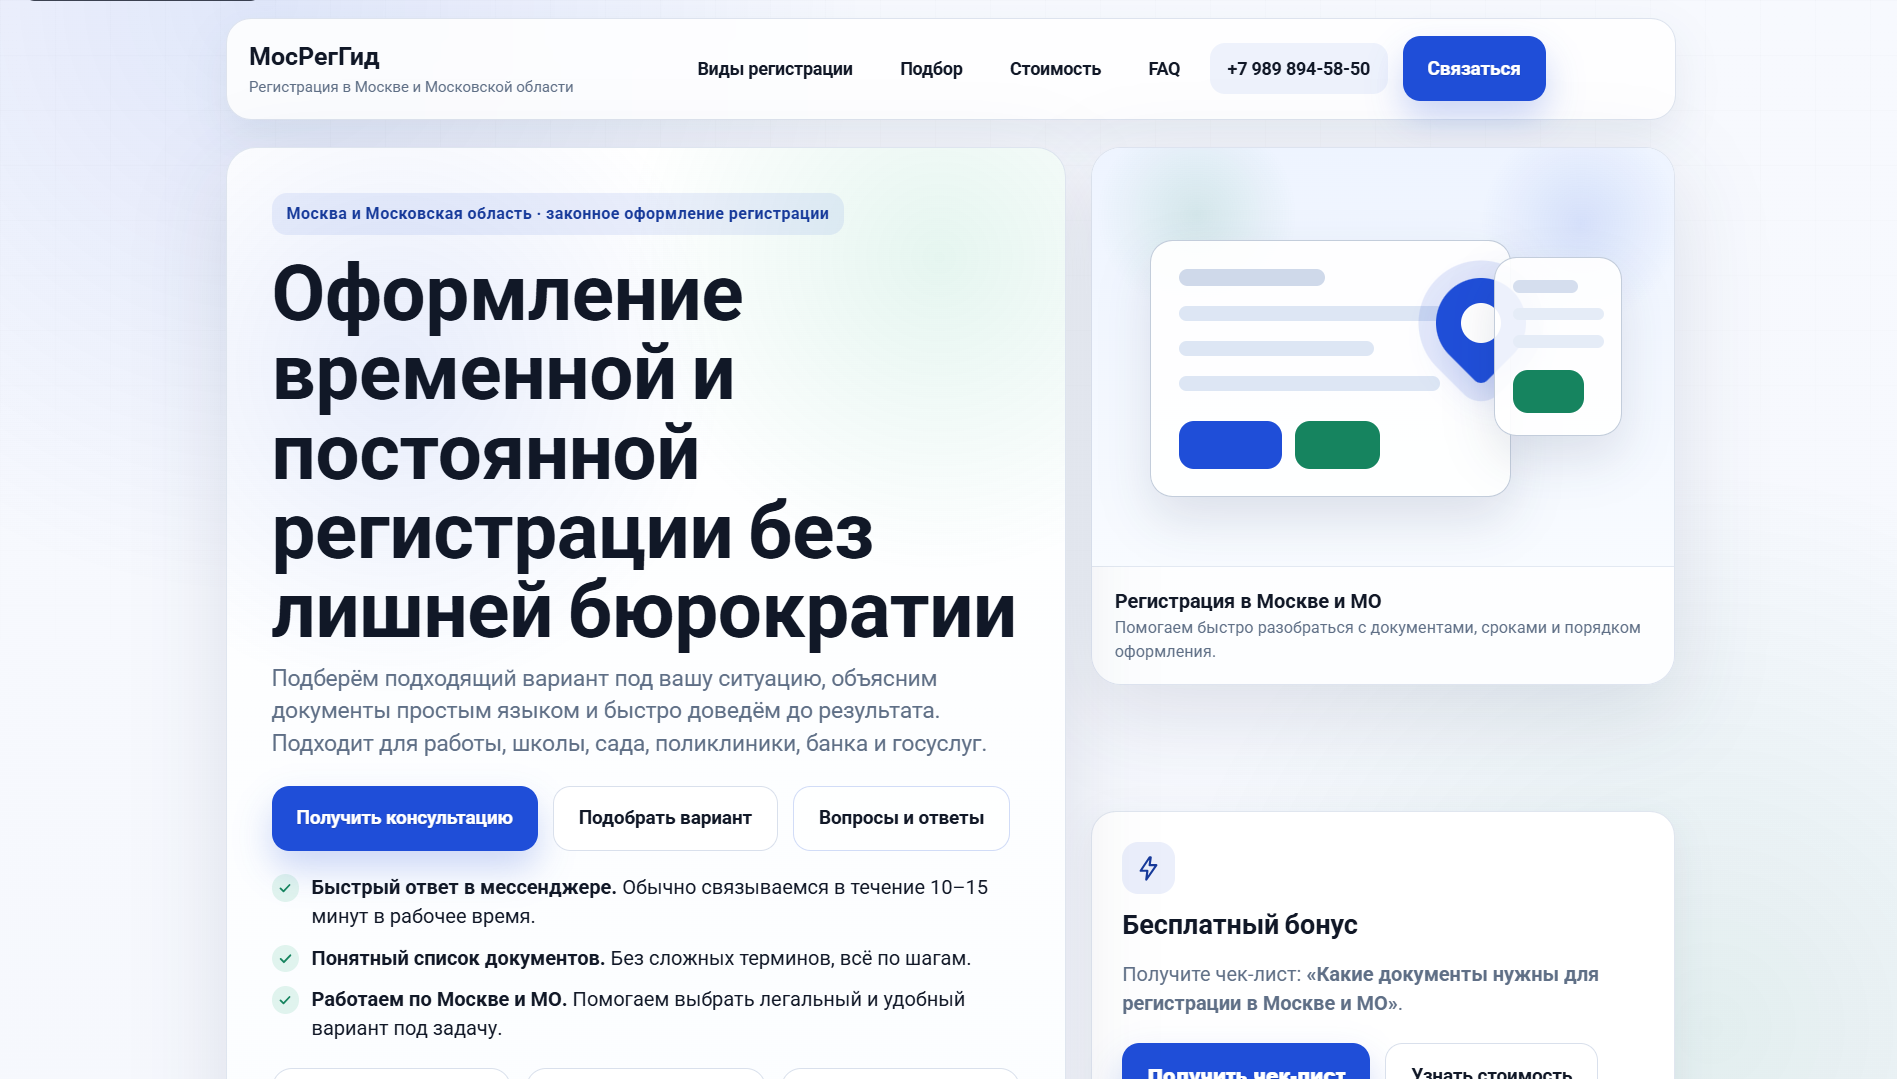
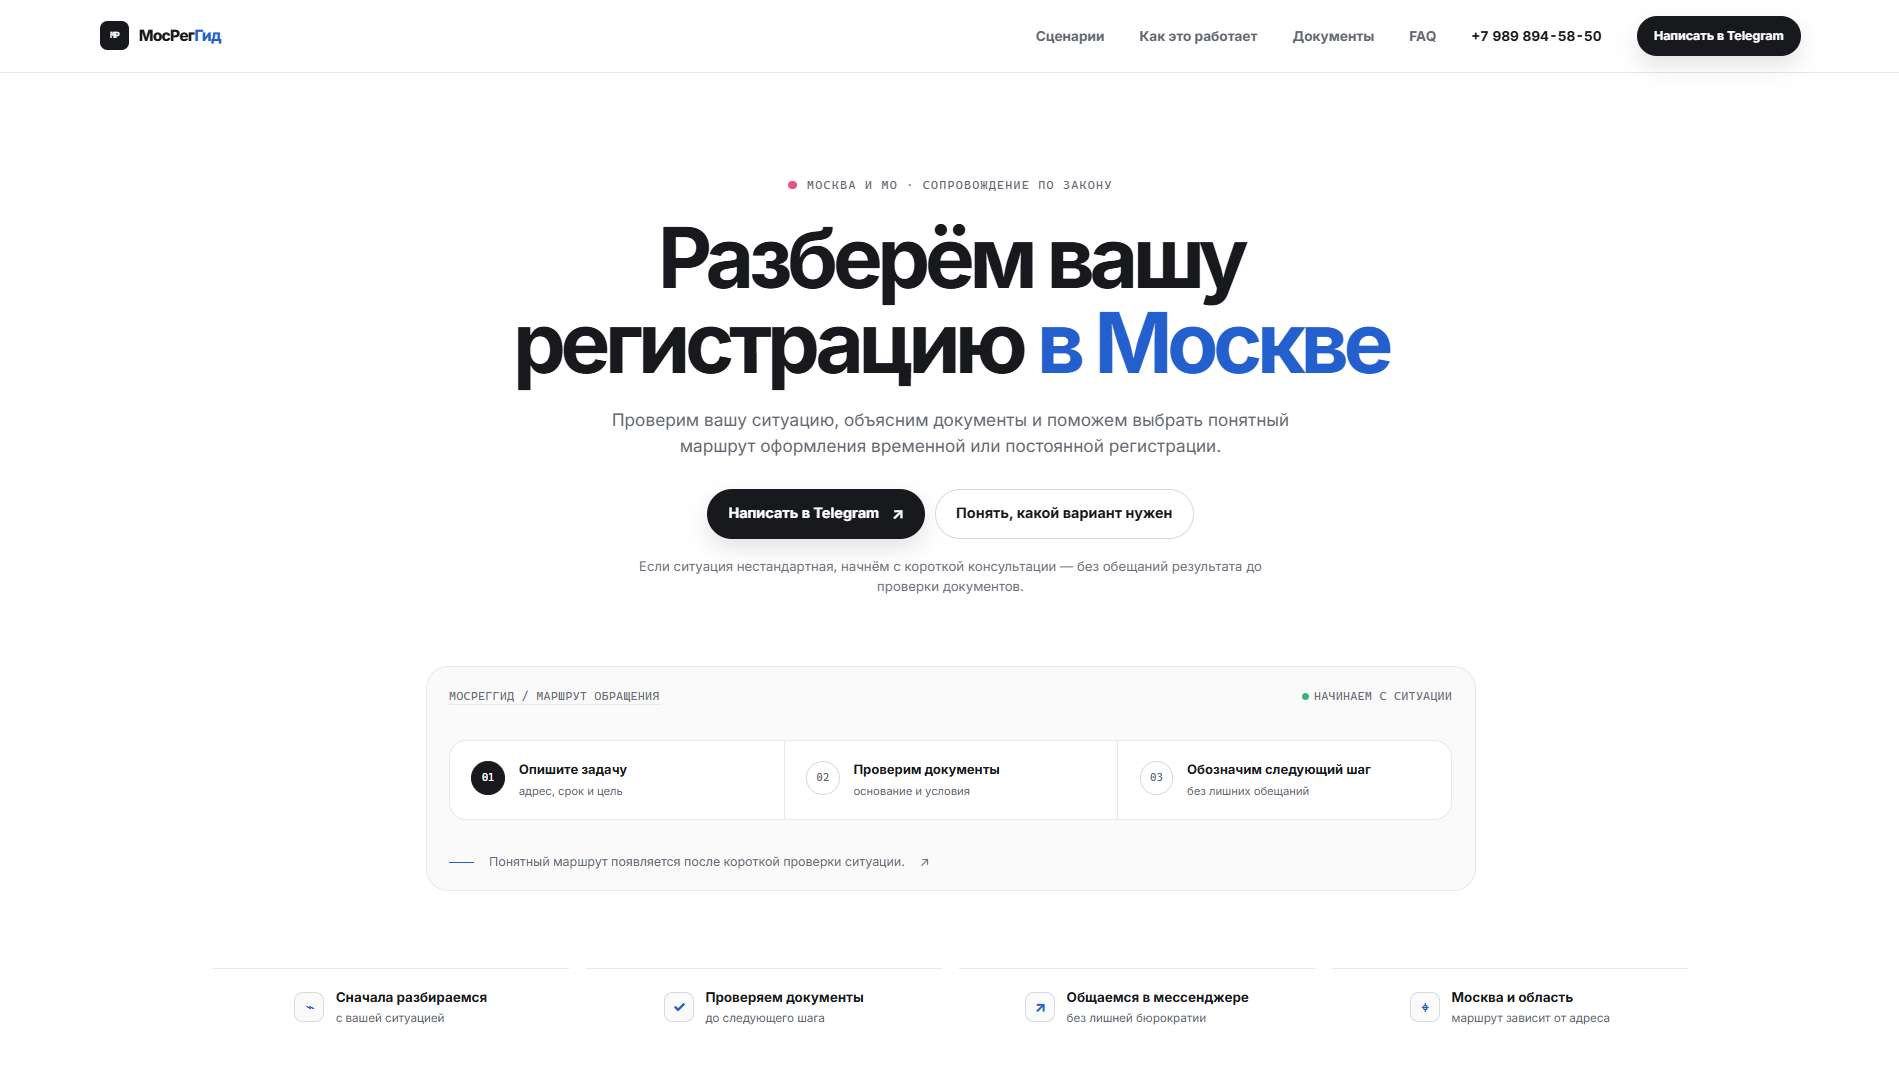
feat: refresh MosRegGuid case in portfolio

diff --git a/js/main.js b/js/main.js
@@ -154,36 +154,41 @@ const cases = [
 		shortTitle: 'МосРегГид',
 		url: 'https://mos-reg-guide.vercel.app/',
 		image: 'cases-img/mos-reg-guide.png',
-		niche: 'Документы / консультационная услуга',
+		niche: 'Регистрация в Москве и МО / документы и маршрут оформления',
 		cardText:
-			'Сделать понятную посадочную страницу для услуги, где клиенту важно быстро разобраться в типах регистрации, документах, стоимости и способе связи.',
+			'Обновить сайт консультационной услуги и помочь посетителю начать с описания ситуации, выбрать подходящий сценарий и понять, какие документы и действия потребуется проверить.',
 		result:
-			'Лендинг снижает юридическую путаницу: объясняет услугу простым языком, помогает выбрать сценарий и переводит пользователя к консультации.',
-		cta: 'Хочу лендинг с квизом',
+			'Редизайн выстраивает маршрут от первого обращения до следующего шага: посетитель выбирает сценарий, знакомится с вариантами регистрации, документами и этапами, а затем отправляет обращение с нужными параметрами.',
+		cta: 'Хочу сайт с понятным маршрутом',
 		done: [
-			'Собрана структура с первым экраном, блоком “для кого”, видами регистрации и ответами на ключевые вопросы',
-			'Добавлен квиз-подбор варианта под ситуацию клиента',
-			'Сделаны блоки стоимости, процесса, документов, отзывов, FAQ и формы заявки',
-			'Форма учитывает параметры квиза и отправляет их в заявку',
+			'Полностью обновлён первый экран: сформулирована польза и показан маршрут обращения в три шага',
+			'Добавлены сценарии для личного обращения, семьи и работодателя или HR',
+			'Собраны разделы о временной и постоянной регистрации, документах, стоимости и отдельном маршруте для иностранных граждан',
+			'Форма передаёт сценарий и тип регистрации, контакт, канал ответа и согласие на обработку данных',
 		],
 		features: [
-			'Квиз-подбор',
-			'Бонус-чеклист',
-			'Форма консультации',
-			'Telegram/WhatsApp',
+			'Сценарии для разных ситуаций',
+			'Интерактивный маршрут обращения',
+			'Проверка документов и стоимости',
+			'Форма с выбором канала ответа',
 		],
 		blocks: [
 			'Первый экран',
-			'Для кого услуга',
-			'Виды регистрации',
-			'Стоимость',
+			'Сценарии обращения',
+			'Временная и постоянная регистрация',
+			'Этапы работы',
 			'Документы',
+			'Стоимость',
+			'Отдельный маршрут для иностранных граждан',
 			'FAQ',
+			'Форма обращения',
 		],
 		functionality: [
-			'Квиз-подбор',
-			'Форма консультации',
-			'Передача параметров квиза',
+			'Вкладки сценариев',
+			'Выбор типа регистрации',
+			'Переключаемые этапы обращения',
+			'Форма с параметрами ситуации',
+			'Telegram / WhatsApp / телефон',
 			'Адаптив',
 		],
 	},

diff --git a/tests/smoke-playwright.py b/tests/smoke-playwright.py
@@ -32,6 +32,8 @@ def run():
             assert page.locator('[data-cases-grid] .case-card').count() == 9, 'All 9 cases should render'
             assert page.locator('[data-open-case="velora"]').count() == 1, 'VELORA case should render'
             expect(page.locator('[data-cases-grid]')).to_contain_text('VELORA')
+            expect(page.locator('[data-open-case="mos-reg-guide"]')).to_have_count(1)
+            expect(page.locator('article[aria-labelledby="case-title-mos-reg-guide"] img')).to_have_attribute('src', 'cases-img/mos-reg-guide.png')
             assert page.locator('[data-open-case="razor-premium"]').count() == 1, 'Razor case should render'
             expect(page.locator('[data-cases-grid]')).to_contain_text('RAZOR / 01')
             expect(page.locator('#hero .btn').first).to_have_attribute('href', '#mini-audit')
@@ -62,6 +64,11 @@ def run():
         expect(page.locator('[data-case-modal]')).to_be_hidden()
         page.locator('[data-case-lead]').first.click()
         expect(page.locator('[data-lead-context]')).to_contain_text('VELORA')
+
+        page.locator('[data-open-case="mos-reg-guide"]').click()
+        expect(page.locator('[data-modal-content]')).to_contain_text('Вкладки сценариев')
+        expect(page.locator('[data-modal-content]')).to_contain_text('Отдельный маршрут для иностранных граждан')
+        page.keyboard.press('Escape')
 
         # FAQ accordion
         second_faq = page.locator('.faq-item button').nth(1)
